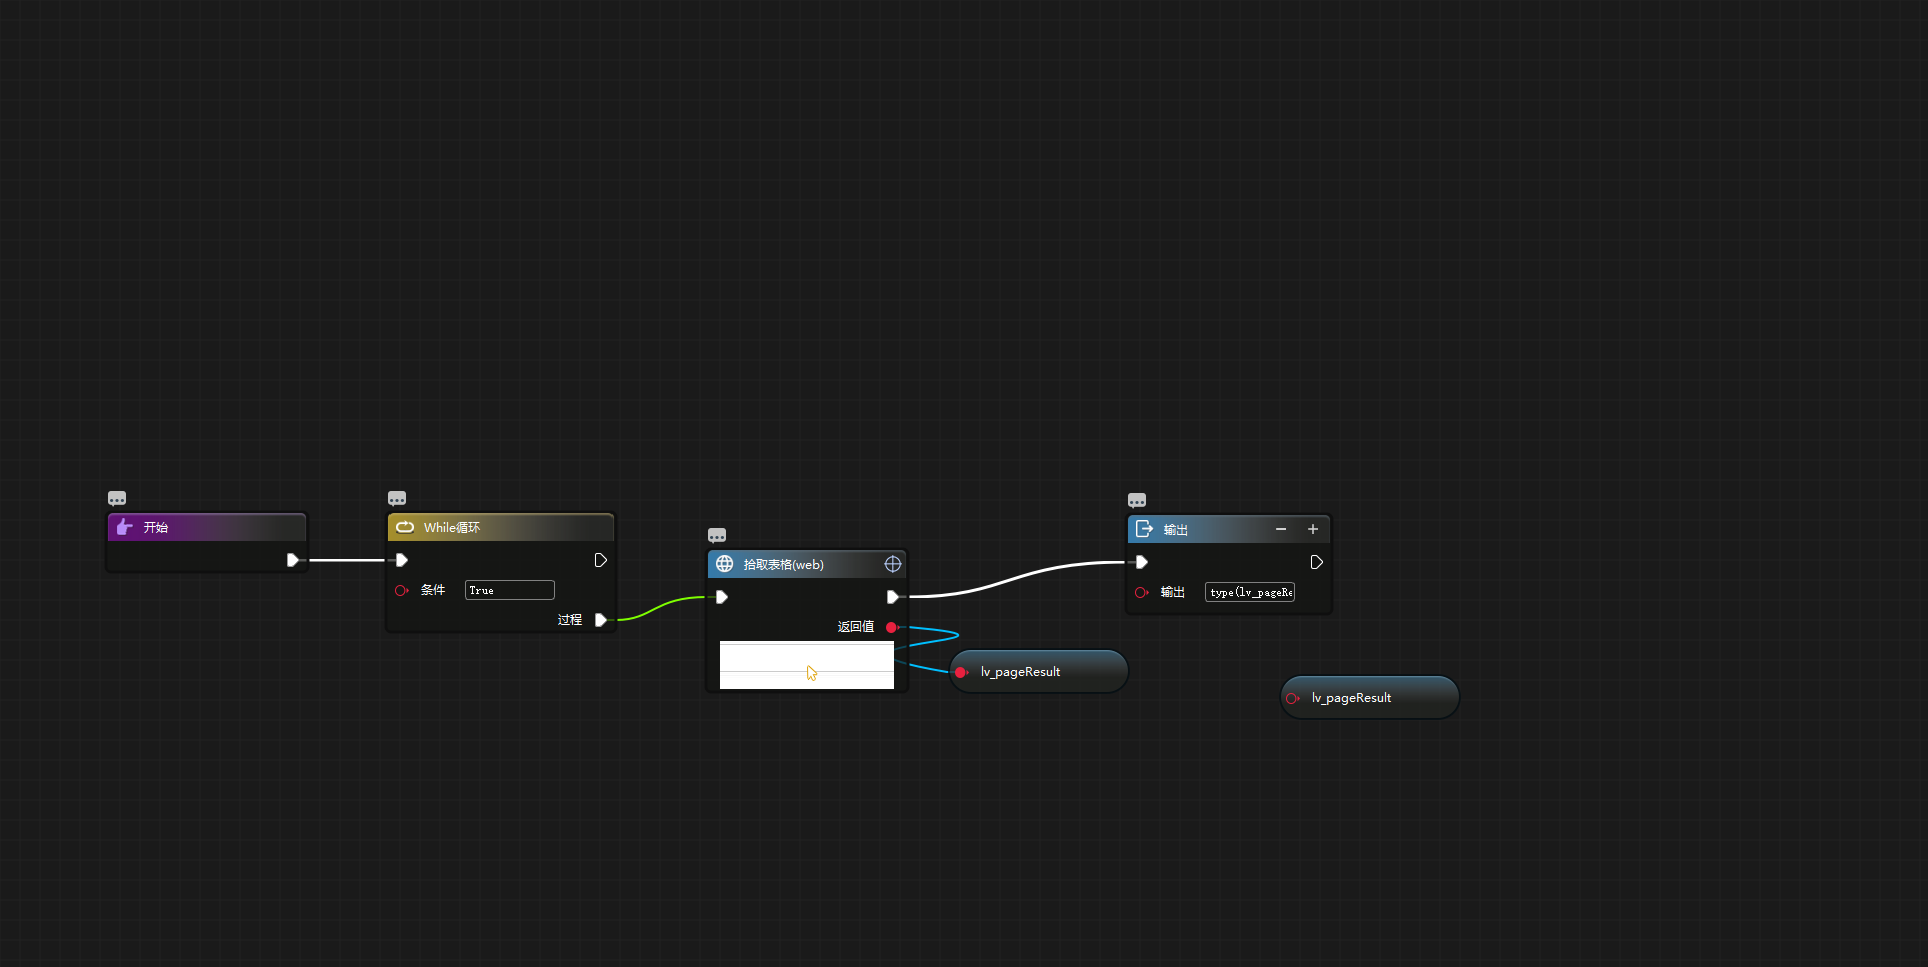
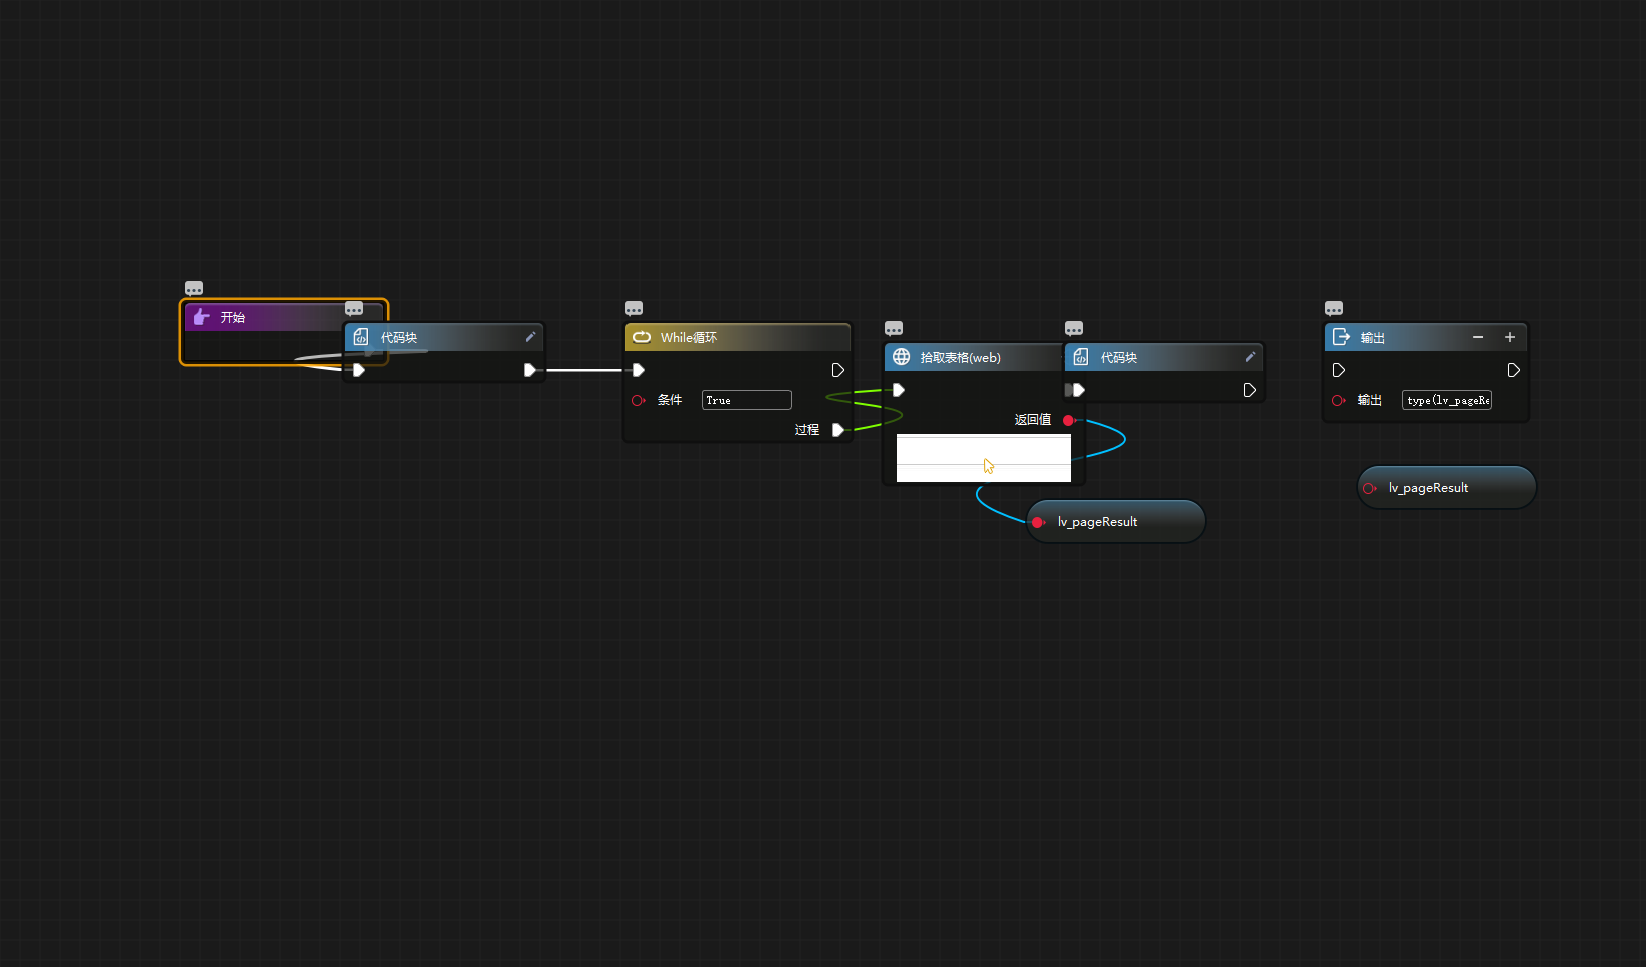
20200508150338

diff --git a/codes/Main_d.py b/codes/Main_d.py
@@ -1,5 +1,5 @@
 # coding=utf-8
-# 编译日期：2020-05-08 15:01:57
+# 编译日期：2020-05-08 15:03:39
 # 版权所有：www.i-search.com.cn
 import time
 import pdb
@@ -8,10 +8,10 @@ from ubpa.base_img import *
 import getopt
 from sys import argv
 import sys
+import pandas as pd
 import ubpa.ibrowse as ibrowse
 import ubpa.iie as iie
 import ubpa.ikeyboard as ikeyboard
-import ubpa.itools.rpa_str as rpa_str
 
 class YeHongJun_KaoShi:
      
@@ -33,17 +33,20 @@ class YeHongJun_KaoShi:
             self.input_arg = self.input_arg.replace("\\","/")
       
     def GetData(self,pv_key=None):
-        lv_totalResult=pd.DataFrame()
+        lv_totalResult=None
         lv_pageResult=None
+        # 代码块
+        self.__logger.debug('Flow:GetData,StepNodeTag:0815030114185,Note:')
+        lv_totalResult = pd.DataFrame()
         # While循环
         self.__logger.debug('Flow:GetData,StepNodeTag:0814504953647,Note:')
         while True:
             # IE拾取表格(web)
             self.__logger.debug('Flow:GetData,StepNodeTag:0814522186952,Note:')
             lv_pageResult = iie.get_ie_table(title=r'理财管理',selector=r'#boxTable',waitfor=10)
-            # 输出
-            self.__logger.debug('Flow:GetData,StepNodeTag:0814580593881,Note:')
-            rpa_str.iprints(type(lv_pageResult))
+            # 代码块
+            self.__logger.debug('Flow:GetData,StepNodeTag:0815024293883,Note:')
+            
       
     def LoginCSM(self):
         password='TVlUqIwIyp0eXB=='
@@ -103,6 +106,6 @@ if __name__ == '__main__':
         elif opt in ("-i", "--input"):
             input_arg = arg
     pro = YeHongJun_KaoShi(robot_no=robot_no,proc_no=proc_no,job_no=job_no,input_arg=input_arg)
-    pro.GetData()
+    pro.Main()
     ___logger = ILog(__file__)
     ___logger.debug('Class:Main,ProTag:Quit,Note:Exit')

diff --git a/codes/Main.py b/codes/Main.py
@@ -1,5 +1,5 @@
 # coding=utf-8
-# 编译日期：2020-05-08 15:01:57
+# 编译日期：2020-05-08 15:03:39
 # 版权所有：www.i-search.com.cn
 import time
 import pdb
@@ -8,10 +8,10 @@ from ubpa.base_img import *
 import getopt
 from sys import argv
 import sys
+import pandas as pd
 import ubpa.ibrowse as ibrowse
 import ubpa.iie as iie
 import ubpa.ikeyboard as ikeyboard
-import ubpa.itools.rpa_str as rpa_str
 
 class YeHongJun_KaoShi:
      
@@ -33,17 +33,20 @@ class YeHongJun_KaoShi:
             self.input_arg = self.input_arg.replace("\\","/")
       
     def GetData(self,pv_key=None):
-        lv_totalResult=pd.DataFrame()
+        lv_totalResult=None
         lv_pageResult=None
+        # 代码块
+        self.__logger.debug('Flow:GetData,StepNodeTag:0815030114185,Note:')
+        lv_totalResult = pd.DataFrame()
         # While循环
         self.__logger.debug('Flow:GetData,StepNodeTag:0814504953647,Note:')
         while True:
             # IE拾取表格(web)
             self.__logger.debug('Flow:GetData,StepNodeTag:0814522186952,Note:')
             lv_pageResult = iie.get_ie_table(title=r'理财管理',selector=r'#boxTable',waitfor=10)
-            # 输出
-            self.__logger.debug('Flow:GetData,StepNodeTag:0814580593881,Note:')
-            rpa_str.iprints(type(lv_pageResult))
+            # 代码块
+            self.__logger.debug('Flow:GetData,StepNodeTag:0815024293883,Note:')
+            
       
     def LoginCSM(self):
         password='TVlUqIwIyp0eXB=='
@@ -103,4 +106,4 @@ if __name__ == '__main__':
         elif opt in ("-i", "--input"):
             input_arg = arg
     pro = YeHongJun_KaoShi(robot_no=robot_no,proc_no=proc_no,job_no=job_no,input_arg=input_arg)
-    pro.GetData()
+    pro.Main()
